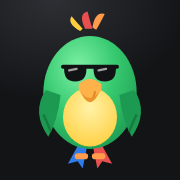
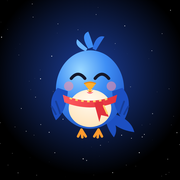
Galaxia negra con estrellas que brillan, íconos y personajes nuevos
Claude-Session: https://claude.ai/code/session_01778MfouyxbgDrk4pFyrYCz

diff --git a/js/practice.js b/js/practice.js
@@ -1,4 +1,4 @@
-// Fluent — practicar (repaso, juegos, conversaciones, Kiko IA), diccionario, gramática, progreso y ajustes.
+// Fluent — practicar (repaso, juegos, conversaciones, Alex IA), diccionario, gramática, progreso y ajustes.
 const REF=window.REFERENCE||{grammar:[],compare:[],phrasal:[],irregular:[],expressions:[],false_friends:[]};
 function learnedWords(){const ws=Object.values(S.srs).filter(c=>c.kind==='w');return ws.length>=8?ws:ALL_WORDS.slice(0,24).map(w=>({...w}))}
 
@@ -7,7 +7,7 @@ function practiceView(){
   const due=srsDue().length,weak=srsWeak().length;
   return `<h1 class="title">Practicar</h1><div class="grid2">
   <button class="tile-card wide hero" onclick="startReview()"><div class="ti">${ic('brain',24)}</div><div><b>Repaso diario</b><br><span>${due?`${due} ${due===1?'cosa lista':'cosas listas'} para repasar`:'Al día. Repasa lo aprendido'}</span></div></button>
-  <button class="tile-card wide" onclick="openTutor()"><div class="ti">${kikoSVG(40,'talk')}</div><div><b>Platica con Kiko</b><br><span>Conversa en inglés, te corrige y al final te dice cómo mejorar</span></div></button>
+  <button class="tile-card wide" onclick="openTutor()"><div class="ti">${kikoSVG(40,'talk')}</div><div><b>Platica con Alex</b><br><span>Conversa en inglés, te corrige y al final te dice cómo mejorar</span></div></button>
   <button class="tile-card" onclick="gamePairs()"><div class="ti">${ic('pairs',22)}</div><b>Parejas contra reloj</b><span>Une palabras en 60 segundos</span></button>
   <button class="tile-card" onclick="gameListen()"><div class="ti">${ic('ear',22)}</div><b>Oído rápido</b><span>Escucha y elige</span></button>
   <button class="tile-card" onclick="gameTF()"><div class="ti">${ic('tf',22)}</div><b>¿Sí o no?</b><span>¿La traducción es correcta?</span></button>
@@ -60,23 +60,23 @@ function gameSpell(){
 }
 
 /* ---------------- conversaciones (diálogos de cada curso) ---------------- */
-function openDialogs(){const us=UNITS.filter(u=>unitUnlocked(u.id));openSheet(head('Conversaciones','Tú eres la persona B. Kiko dice las líneas de A.')+`<div class="list">${us.map(u=>`<div class="li" onclick="closeSheet();openDialogue(${u.id})">${ic('chat',20)}<div class="mid"><div class="t">${esc(u.dialogue.title_es)}</div><div class="s">Curso ${u.id} · ${esc(u.dialogue.setting_es)}</div></div>${S.units[u.id]?.dlg?`<span style="color:var(--gold)">${ic('star',18)}</span>`:''}</div>`).join('')}</div>`)}
+function openDialogs(){const us=UNITS.filter(u=>unitUnlocked(u.id));openSheet(head('Conversaciones','Tú eres la persona B. Alex dice las líneas de A.')+`<div class="list">${us.map(u=>`<div class="li" onclick="closeSheet();openDialogue(${u.id})">${ic('chat',20)}<div class="mid"><div class="t">${esc(u.dialogue.title_es)}</div><div class="s">Curso ${u.id} · ${esc(u.dialogue.setting_es)}</div></div>${S.units[u.id]?.dlg?`<span style="color:var(--gold)">${ic('star',18)}</span>`:''}</div>`).join('')}</div>`)}
 function openDialogue(uid){
   const u=unitById(uid),d=u.dialogue;
   openSheet(head(esc(d.title_es),esc(d.setting_es))+`<div class="chat">${d.lines.map(l=>`<div class="msg ${l.who==='B'?'me':'kiko'}">${esc(l.en)}<span class="tr" style="${l.who==='B'?'color:rgba(255,255,255,.75)':''}">${esc(l.es)}</span></div>`).join('')}</div>
   <button class="btn alt" onclick="playDialogue(${uid})">${ic('speaker',18)} Escuchar completa</button><button class="btn" onclick="closeSheet();actDialogue(${uid})">${ic('mic',18)} Actuarla (tú eres B)</button>`);
 }
 function playDialogue(uid){const ls_=unitById(uid).dialogue.lines;let i=0;const nx=()=>{if(i<ls_.length)speak(ls_[i++].en,{onend:()=>setTimeout(nx,350)})};nx()}
-function actDialogue(uid){const d=unitById(uid).dialogue;const q=[];d.lines.forEach((l,i)=>{if(l.who==='B'){const prev=d.lines[i-1];q.push({type:'speak',q:prev?`Kiko: “${prev.en}”`:'Empieza la plática',prompt:l.en,es:l.es,answer:l.en,item:null,audioFirst:prev?.en})}});
+function actDialogue(uid){const d=unitById(uid).dialogue;const q=[];d.lines.forEach((l,i)=>{if(l.who==='B'){const prev=d.lines[i-1];q.push({type:'speak',q:prev?`Alex: “${prev.en}”`:'Empieza la plática',prompt:l.en,es:l.es,answer:l.en,item:null,audioFirst:prev?.en})}});
   runSession({mode:'review',queue:q,title:d.title_es,onFinish:acc=>{S.units[uid]={...(S.units[uid]||{}),dlg:Math.max(acc,S.units[uid]?.dlg||0)}}})}
 
-/* ---------------- Kiko IA ---------------- */
+/* ---------------- Alex IA ---------------- */
 const SCENARIOS=[['','Plática libre'],['ordering food at a restaurant in New York','Restaurante'],['checking in at a hotel','Hotel'],['a job interview for an office job','Entrevista'],['asking for directions in a city','Direcciones'],['shopping for clothes','Compras'],['at the doctor','Doctor'],['making plans with a friend for the weekend','Planes con amigos'],['at the airport check-in','Aeropuerto'],['talking about your family and hobbies','Familia y hobbies']];
 let T={msgs:[],scen:'',busy:false};
 function tutorLevel(){const nx=nextLesson();const u=nx?(nx.test||nx.unit):16;return u<=6?'A1':u<=11?'A2':u<=15?'B1':'B2'}
-function openTutor(){T={msgs:[],scen:T.scen||'',busy:false};renderTutor();setTimeout(()=>{if(!T.msgs.length)kikoSays(T.scen?"Let's start! I'll begin.":`Hi${userName()?' '+userName():''}! I'm Kiko. How are you today?`,'¡Hola! Soy Kiko. ¿Cómo estás hoy?')},300)}
+function openTutor(){T={msgs:[],scen:T.scen||'',busy:false};renderTutor();setTimeout(()=>{if(!T.msgs.length)kikoSays(T.scen?"Let's start! I'll begin.":`Hi${userName()?' '+userName():''}! I'm Alex. How are you today?`,'¡Hola! Soy Alex. ¿Cómo estás hoy?')},300)}
 function renderTutor(){
-  openSheet(head('Platica con Kiko',`Nivel ${tutorLevel()} · Escribe o habla en inglés. Si no sabes cómo decir algo, escríbelo en español.`)+
+  openSheet(head('Platica con Alex',`Nivel ${tutorLevel()} · Escribe o habla en inglés. Si no sabes cómo decir algo, escríbelo en español.`)+
   `<div class="scen">${SCENARIOS.map(([k,n])=>`<button class="${T.scen===k?'on':''}" onclick="T.scen='${k}';openTutor()">${n}</button>`).join('')}</div>
   <div class="chat" id="chat">${T.msgs.map(msgHTML).join('')}</div>
   <div class="composer"><button class="mic" id="tMic" onclick="tutorMic()" aria-label="Hablar">${ic('mic',22)}</button><textarea id="tIn" rows="1" placeholder="Write in English…" onkeydown="if(event.key==='Enter'&&!event.shiftKey){event.preventDefault();tutorSend()}"></textarea><button onclick="tutorSend()" aria-label="Enviar">${ic('send',20)}</button></div>
@@ -85,7 +85,7 @@ function renderTutor(){
 }
 function msgHTML(m,i){
   if(m.role==='user')return `<div class="msg me">${esc(m.content)}</div>`;
-  if(m.typing)return `<div class="msg kiko"><span class="muted">Kiko está escribiendo…</span></div>`;
+  if(m.typing)return `<div class="msg kiko"><span class="muted">Alex está escribiendo…</span></div>`;
   return `<div class="msg kiko">${esc(m.content)}${m.reply_es?`<span class="tr" id="tr${i}" style="display:none">${esc(m.reply_es)}</span>`:''}${m.correction?`<span class="corr"><b>Mejor di:</b> ${esc(m.correction)}${m.explain_es?`<br><span class="muted">${esc(m.explain_es)}</span>`:''}</span>`:m.praise?`<span class="ok">${ic('check',14)} ${esc(m.praise)}</span>`:''}<span class="acts"><button onclick="speak(T.msgs[${i}].content)">${ic('speaker',15)} Escuchar</button>${m.reply_es?`<button onclick="const e=$('tr${i}');e.style.display=e.style.display?'':'none'">Traducir</button>`:''}</span></div>`;
 }
 function kikoSays(en,es){T.msgs.push({role:'assistant',content:en,reply_es:es});renderTutor();speak(en)}
@@ -96,7 +96,7 @@ async function tutorSend(){
     const {data:{session}}=await sb.auth.getSession();
     const r=await fetch(TUTOR_API,{method:'POST',headers:{Authorization:'Bearer '+session.access_token,'Content-Type':'application/json'},body:JSON.stringify({messages:T.msgs.filter(m=>!m.typing).map(m=>({role:m.role,content:m.content})),scenario:T.scen,level:tutorLevel()})});
     const j=await r.json().catch(()=>({}));T.msgs.pop();
-    if(!r.ok){T.msgs.push({role:'assistant',content:j.error||'Kiko no está disponible ahorita.',reply_es:null});T.busy=false;renderTutor();sfx('error');return}
+    if(!r.ok){T.msgs.push({role:'assistant',content:j.error||'Alex no está disponible ahorita.',reply_es:null});T.busy=false;renderTutor();sfx('error');return}
     T.msgs.push({role:'assistant',content:j.reply||'…',reply_es:j.reply_es,correction:j.correction,explain_es:j.explain_es,praise:j.praise});
     S.totals.tutor++;addXP(2);save();T.busy=false;renderTutor();speak(j.reply||'');sfx(j.correction?'toggle':'done');
   }catch(e){T.msgs.pop();T.busy=false;T.msgs.push({role:'assistant',content:'Sin conexión. Intenta otra vez.'});renderTutor()}
@@ -107,7 +107,7 @@ function tutorMic(){
   b.classList.add('rec');listen({onText:t=>{$('tIn').value=t},onEnd:f=>{b?.classList.remove('rec');sfx('stop');if(f.trim())tutorSend()},onError:()=>{b?.classList.remove('rec')}});
 }
 async function tutorSummary(){
-  openSheet(head('Tu plática','Kiko está revisando…')+`<div style="text-align:center">${kikoSVG(120,'think')}</div>`);
+  openSheet(head('Tu plática','Alex está revisando…')+`<div style="text-align:center">${kikoSVG(120,'think')}</div>`);
   try{const {data:{session}}=await sb.auth.getSession();
     const r=await fetch(TUTOR_API,{method:'POST',headers:{Authorization:'Bearer '+session.access_token,'Content-Type':'application/json'},body:JSON.stringify({mode:'summary',messages:T.msgs.filter(m=>!m.typing).map(m=>({role:m.role,content:m.content})),level:tutorLevel()})});
     const j=await r.json();if(!r.ok)throw new Error(j.error);
@@ -118,7 +118,7 @@ async function tutorSummary(){
     ${(j.tips_es||[]).length?`<div class="sec"><h2>Cómo mejorar</h2></div><div class="list">${j.tips_es.map(s=>`<div class="li">${ic('target',18)}<div class="mid">${esc(s)}</div></div>`).join('')}</div>`:''}
     ${(j.useful_phrases||[]).length?`<div class="sec"><h2>Frases útiles</h2></div><div class="list">${j.useful_phrases.map(p=>`<div class="li" onclick="speak('${esc(p.en).replace(/'/g,"\\'")}')"><span style="color:var(--blue)">${ic('speaker',18)}</span><div class="mid"><div class="t">${esc(p.en)}</div><div class="s">${esc(p.es)}</div></div></div>`).join('')}</div>`:''}
     <div style="margin-top:16px"><button class="btn" onclick="openTutor()">Platicar otra vez</button></div>`);
-    (j.mistakes||[]).forEach(m=>srsAdd({en:m.better,es:m.why_es||'Corrección de Kiko',lesson:'kiko'},'s'));save();
+    (j.mistakes||[]).forEach(m=>srsAdd({en:m.better,es:m.why_es||'Corrección de Alex',lesson:'kiko'},'s'));save();
   }catch(e){openSheet(head('Tu plática','')+`<p>No pude revisar la plática: ${esc(e.message||'')}</p><button class="btn" onclick="renderTutor()">Regresar</button>`)}
 }
 

diff --git a/galaxy.js b/galaxy.js
@@ -1,62 +1,76 @@
-// Fondo de galaxia en movimiento: estrellas que se desplazan en capas, nebulosas que respiran
-// y una estrella fugaz de vez en cuando. Se adapta al tema claro u oscuro de la app.
+// Fondo de galaxia negra: estrellas que titilan, algunas con destello en cruz, una Vía Láctea
+// muy suave que gira lento y estrellas fugaces de vez en cuando. En tema claro se vuelve discreto.
 (function () {
   if (window.__galaxy) return; window.__galaxy = true;
   var st = document.createElement('style');
-  st.textContent = 'html:not(#gx){background:var(--bg,#0e0e16)!important}html body:not(#gx),html .auth:not(#gx),html #authOverlay:not(#gx){background:transparent!important}#galaxy-bg{position:fixed;inset:0;width:100vw;height:100vh;z-index:-1;pointer-events:none;display:block}';
+  st.id = 'galaxy-css';
   document.head.appendChild(st);
   var cv = document.createElement('canvas'); cv.id = 'galaxy-bg'; cv.setAttribute('aria-hidden', 'true');
   function mount() { document.body.insertBefore(cv, document.body.firstChild); }
   if (document.body) mount(); else document.addEventListener('DOMContentLoaded', mount);
-  var c = cv.getContext('2d'), W = 0, H = 0, D = 1, stars = [], dark = true, base = [14, 14, 22], accent = [124, 92, 255];
+  var c = cv.getContext('2d'), W = 0, H = 0, D = 1, stars = [], dust = [], dark = true, shoot = null;
   function rgb(s) { var m = String(s).match(/\d+(\.\d+)?/g); return m && m.length >= 3 ? [+m[0], +m[1], +m[2]] : null; }
   function theme() {
-    var cs = getComputedStyle(document.documentElement);
-    base = rgb(cs.backgroundColor) || base;
-    var a = cs.getPropertyValue('--accent') || cs.getPropertyValue('--brand') || cs.getPropertyValue('--primary');
-    if (a && a.trim()) { var t = document.createElement('i'); t.style.color = a.trim(); document.body.appendChild(t); accent = rgb(getComputedStyle(t).color) || accent; t.remove(); }
-    dark = (0.299 * base[0] + 0.587 * base[1] + 0.114 * base[2]) < 128;
+    // Lee el color de fondo que define la app (--bg) para saber si está en tema oscuro o claro.
+    var probe = document.createElement('i'); probe.style.color = 'var(--bg, #000)'; document.body.appendChild(probe);
+    var b = rgb(getComputedStyle(probe).color) || [0, 0, 0]; probe.remove();
+    var was = dark; dark = (0.299 * b[0] + 0.587 * b[1] + 0.114 * b[2]) < 128;
+    st.textContent = 'html:not(#gx){background:' + (dark ? '#000' : 'var(--bg,#f4f4f7)') + '!important}html body:not(#gx),html .auth:not(#gx),html #authOverlay:not(#gx){background:transparent!important}#galaxy-bg{position:fixed;inset:0;width:100vw;height:100vh;z-index:-1;pointer-events:none;display:block}';
+    var mt = document.querySelector('meta[name="theme-color"]'); if (mt && dark) mt.setAttribute('content', '#000000');
+    return was !== dark;
   }
   function seed() {
-    var n = Math.round(Math.min(260, W * H / 4200)); stars = [];
-    for (var i = 0; i < n; i++) stars.push({ x: Math.random() * W, y: Math.random() * H, z: Math.random(), p: Math.random() * 6.28, h: Math.random() });
+    var n = Math.round(Math.min(420, W * H / 2600)); stars = [];
+    for (var i = 0; i < n; i++) {
+      var z = Math.pow(Math.random(), 2.2);
+      stars.push({ x: Math.random() * W, y: Math.random() * H, z: z, p: Math.random() * 6.28, sp: .6 + Math.random() * 2.4, h: Math.random(), flare: z > .82 && Math.random() < .5 });
+    }
+    dust = []; for (var j = 0; j < 260; j++) { var t = Math.random(); dust.push({ t: t, o: (Math.random() - .5) * (.12 + Math.random() * .1), r: Math.random() * 1.1 + .2, a: Math.random() }); }
   }
   function size() { D = Math.min(2, window.devicePixelRatio || 1); W = innerWidth; H = innerHeight; cv.width = W * D; cv.height = H * D; c.setTransform(D, 0, 0, D, 0, 0); seed(); }
-  var shoot = null;
-  function frame(t) {
-    t /= 1000;
+  function frame(ms) {
+    var t = ms / 1000;
     c.clearRect(0, 0, W, H);
-    // nebulosas
-    var neb = [[accent, .25, .3, .55], [[90, 140, 255], .8, .2, .45], [[255, 110, 190], .6, .85, .5]];
-    for (var k = 0; k < neb.length; k++) {
-      var col = neb[k][0], x = W * (neb[k][1] + .06 * Math.sin(t * .05 + k * 2)), y = H * (neb[k][2] + .05 * Math.cos(t * .04 + k)), r = Math.max(W, H) * neb[k][3] * (1 + .08 * Math.sin(t * .1 + k));
-      var g = c.createRadialGradient(x, y, 0, x, y, r), a = dark ? .2 : .1;
-      g.addColorStop(0, 'rgba(' + col + ',' + a + ')'); g.addColorStop(1, 'rgba(' + col + ',0)');
-      c.fillStyle = g; c.fillRect(0, 0, W, H);
-    }
-    // estrellas en capas (las cercanas se mueven más rápido)
+    var ink = dark ? '255,255,255' : '40,40,80';
+    // Vía Láctea: una banda diagonal muy tenue que gira despacio
+    c.save(); c.translate(W / 2, H / 2); c.rotate(-.55 + Math.sin(t * .01) * .05);
+    var L = Math.hypot(W, H), bw = Math.min(W, H) * .32;
+    var g = c.createLinearGradient(0, -bw, 0, bw);
+    g.addColorStop(0, 'rgba(120,110,200,0)'); g.addColorStop(.5, dark ? 'rgba(150,140,230,.07)' : 'rgba(120,110,200,.05)'); g.addColorStop(1, 'rgba(120,110,200,0)');
+    c.fillStyle = g; c.fillRect(-L, -bw, L * 2, bw * 2);
+    for (var j = 0; j < dust.length; j++) { var d = dust[j]; var x = (d.t - .5) * L * 1.1, y = d.o * L; c.fillStyle = 'rgba(' + ink + ',' + (.15 + .25 * (.5 + .5 * Math.sin(t * .8 + d.a * 9))) * (dark ? 1 : .5) + ')'; c.fillRect(x, y, d.r, d.r); }
+    c.restore();
+    // estrellas
     for (var i = 0; i < stars.length; i++) {
-      var s = stars[i], sp = .8 + s.z * 7;
-      var x2 = (s.x + t * sp) % (W + 4), y2 = (s.y + t * sp * .35) % (H + 4);
-      var tw = .5 + .5 * Math.sin(t * (1 + s.z * 2) + s.p), r2 = .4 + s.z * 1.5;
-      var tint = s.h < .15 ? '200,215,255' : s.h > .92 ? '255,225,190' : (dark ? '255,255,255' : '60,60,110');
-      c.fillStyle = 'rgba(' + tint + ',' + ((dark ? .35 : .22) + tw * (dark ? .6 : .3)) + ')';
-      c.beginPath(); c.arc(x2, y2, r2, 0, 6.29); c.fill();
-      if (s.z > .93 && dark) { c.fillStyle = 'rgba(255,255,255,' + tw * .12 + ')'; c.beginPath(); c.arc(x2, y2, r2 * 4, 0, 6.29); c.fill(); }
+      var s = stars[i];
+      var x2 = (s.x + t * (1 + s.z * 4)) % (W + 6), y2 = s.y;
+      var tw = .5 + .5 * Math.sin(t * s.sp + s.p); tw = tw * tw;
+      var r = .35 + s.z * 1.7;
+      var col = s.h < .12 ? '180,205,255' : s.h > .93 ? '255,220,180' : ink;
+      var a = (dark ? .25 : .12) + tw * (dark ? .75 : .35);
+      c.fillStyle = 'rgba(' + col + ',' + a + ')';
+      c.beginPath(); c.arc(x2, y2, r, 0, 6.29); c.fill();
+      if (s.flare && dark) {
+        var fl = r * (4 + tw * 7);
+        c.strokeStyle = 'rgba(' + col + ',' + tw * .55 + ')'; c.lineWidth = .8;
+        c.beginPath(); c.moveTo(x2 - fl, y2); c.lineTo(x2 + fl, y2); c.moveTo(x2, y2 - fl); c.lineTo(x2, y2 + fl); c.stroke();
+        var gg = c.createRadialGradient(x2, y2, 0, x2, y2, r * 6); gg.addColorStop(0, 'rgba(' + col + ',' + tw * .35 + ')'); gg.addColorStop(1, 'rgba(' + col + ',0)');
+        c.fillStyle = gg; c.beginPath(); c.arc(x2, y2, r * 6, 0, 6.29); c.fill();
+      }
     }
     // estrella fugaz
-    if (!shoot && Math.random() < .004) shoot = { x: Math.random() * W * .8, y: Math.random() * H * .4, l: 0 };
+    if (!shoot && Math.random() < .003) shoot = { x: Math.random() * W * .8, y: Math.random() * H * .45, l: 0, a: .35 + Math.random() * .3 };
     if (shoot) {
-      shoot.l += .02; var L = shoot.l, sx = shoot.x + L * W * .4, sy = shoot.y + L * H * .2;
-      var lg = c.createLinearGradient(sx, sy, sx - 110, sy - 55);
-      lg.addColorStop(0, (dark ? 'rgba(255,255,255,' : 'rgba(80,80,140,') + (1 - L) + ')'); lg.addColorStop(1, 'rgba(255,255,255,0)');
-      c.strokeStyle = lg; c.lineWidth = 1.8; c.beginPath(); c.moveTo(sx, sy); c.lineTo(sx - 110, sy - 55); c.stroke();
-      if (L >= 1) shoot = null;
+      shoot.l += .018; var k = shoot.l, sx = shoot.x + k * W * .45, sy = shoot.y + k * W * .45 * shoot.a, len = 140;
+      var lg = c.createLinearGradient(sx, sy, sx - len, sy - len * shoot.a);
+      lg.addColorStop(0, 'rgba(' + ink + ',' + Math.sin(k * Math.PI) + ')'); lg.addColorStop(1, 'rgba(' + ink + ',0)');
+      c.strokeStyle = lg; c.lineWidth = 1.6; c.beginPath(); c.moveTo(sx, sy); c.lineTo(sx - len, sy - len * shoot.a); c.stroke();
+      if (k >= 1) shoot = null;
     }
   }
   var reduce = matchMedia('(prefers-reduced-motion: reduce)').matches;
   function loop(ts) { if (!document.hidden) frame(ts); requestAnimationFrame(loop); }
-  function start() { theme(); size(); if (reduce) frame(20000); else requestAnimationFrame(loop); setInterval(function () { var d = dark, b = base + ''; theme(); if (reduce && (d !== dark || b !== base + '')) frame(20000); }, 1500); }
+  function start() { theme(); size(); if (reduce) frame(20000); else requestAnimationFrame(loop); setInterval(function () { if (theme() && reduce) frame(20000); }, 1500); }
   addEventListener('resize', function () { size(); if (reduce) frame(20000); });
   if (document.readyState === 'loading') document.addEventListener('DOMContentLoaded', start); else start();
 })();

diff --git a/js/core.js b/js/core.js
@@ -121,33 +121,37 @@ function similarity(said,expected){
 }
 function typedOK(said,expected){const a=norm(said),b=norm(expected);if(a===b)return 'exact';const d=lev(a,b);return d<=Math.max(1,Math.floor(b.length/12))?'typo':false}
 
-/* ---------------- personaje: Kiko, el perico con lentes ---------------- */
+/* ---------------- personaje: Alex, el pájaro azul ---------------- */
 let _kid=0;
 function isSleep(){const h=new Date().getHours();return h>=23||h<5}
 function kikoSVG(size=90,mood='idle'){
   if(isSleep()&&['idle','wave'].includes(mood))mood='sleep';
-  const id='k'+(++_kid),sleep=mood==='sleep',ink='#121314';
-  const eyes=sleep?`<path d="M44 52q6 5 12 0M64 52q6 5 12 0" stroke="${ink}" stroke-width="3" fill="none" stroke-linecap="round"/>`
-    :`<g class="glass"><path d="M38 47h44" stroke="${ink}" stroke-width="3.2" stroke-linecap="round"/><path d="M39 47h18q1 12-9 12t-9-12z" fill="${ink}"/><path d="M63 47h18q1 12-9 12t-9-12z" fill="${ink}"/><path d="M43 50l6-1.2M67 50l6-1.2" stroke="#fff" stroke-width="2" stroke-linecap="round" opacity=".6"/></g>`;
+  const id='k'+(++_kid),sleep=mood==='sleep',ink='#14182b';
   const happy=['happy','celebrate','wave'].includes(mood);
+  const eyes=sleep?`<path d="M38 55q8 6 16 0M66 55q8 6 16 0" stroke="${ink}" stroke-width="3.2" fill="none" stroke-linecap="round"/>`
+    :happy?`<path d="M38 57q8-10 16 0M66 57q8-10 16 0" stroke="${ink}" stroke-width="3.6" fill="none" stroke-linecap="round"/>`
+    :`<g class="eyes"><ellipse cx="46" cy="54" rx="10" ry="11.5" fill="#fff"/><ellipse cx="74" cy="54" rx="10" ry="11.5" fill="#fff"/><g class="pupils"><circle cx="${mood==='think'?44:48}" cy="${mood==='think'?51:56}" r="5.6" fill="${ink}"/><circle cx="${mood==='think'?72:76}" cy="${mood==='think'?51:56}" r="5.6" fill="${ink}"/><circle cx="${mood==='think'?46:50}" cy="${mood==='think'?49:54}" r="1.9" fill="#fff"/><circle cx="${mood==='think'?74:78}" cy="${mood==='think'?49:54}" r="1.9" fill="#fff"/></g></g>`;
   const zz=sleep?`<text class="z" x="92" y="22" font-size="12" font-weight="800" fill="var(--muted)">z</text><text class="z z2" x="100" y="12" font-size="15" font-weight="800" fill="var(--muted)">z</text><text class="z z3" x="108" y="2" font-size="18" font-weight="800" fill="var(--muted)">Z</text>`:'';
-  const tongue=happy||mood==='talk'?`<path d="M55 72q5 6 10 0" fill="#e86a6a"/>`:'';
-  const sadBrow=mood==='sad'?`<path d="M40 41l14 3M80 41l-14 3" stroke="${ink}" stroke-width="2.6" stroke-linecap="round"/>`:'';
-  return `<svg class="kiko m-${mood}" width="${size}" height="${size}" viewBox="0 0 120 132" onclick="kikoPoke(this)" role="img" aria-label="Kiko">
-  <defs><radialGradient id="${id}g" cx="38%" cy="28%" r="80%"><stop offset="0" stop-color="#7ef0a6"/><stop offset=".5" stop-color="#36c96f"/><stop offset="1" stop-color="#1d9a52"/></radialGradient>
-  <radialGradient id="${id}y" cx="50%" cy="35%" r="70%"><stop offset="0" stop-color="#fff2a8"/><stop offset="1" stop-color="#ffcf3f"/></radialGradient></defs>
+  const tongue=happy||mood==='talk'?`<path d="M56 73q4 4 8 0" fill="#ff7a8a"/>`:'';
+  const brow=mood==='sad'?`<path d="M36 41l16 5M84 41l-16 5" stroke="${ink}" stroke-width="2.8" stroke-linecap="round"/>`:mood==='think'?`<path d="M37 40q8-4 16 0" stroke="${ink}" stroke-width="2.6" fill="none" stroke-linecap="round"/>`:'';
+  return `<svg class="kiko alex m-${mood}" width="${size}" height="${size}" viewBox="0 0 120 132" onclick="kikoPoke(this)" role="img" aria-label="Alex">
+  <defs><radialGradient id="${id}g" cx="36%" cy="26%" r="85%"><stop offset="0" stop-color="#9ad8ff"/><stop offset=".45" stop-color="#3f8ff5"/><stop offset="1" stop-color="#1c4fc2"/></radialGradient>
+  <radialGradient id="${id}b" cx="50%" cy="30%" r="75%"><stop offset="0" stop-color="#fffaf0"/><stop offset="1" stop-color="#ffe2b8"/></radialGradient>
+  <linearGradient id="${id}s" x1="0" x2="1"><stop offset="0" stop-color="#ff5a5f"/><stop offset="1" stop-color="#e2303c"/></linearGradient></defs>
   <ellipse class="ks" cx="60" cy="127" rx="28" ry="4.5" fill="#000"/>
   <g class="kb">
-    <path d="M52 108l-10 18 8-2 4 6 4-20z" fill="#2f7bea"/><path d="M68 108l10 18-8-2-4 6-4-20z" fill="#e8504f"/>
-    <g class="crest"><path d="M56 16q-6-12 2-14 2 8 4 14z" fill="#e8504f"/><path d="M62 15q2-13 10-11-4 8-7 13z" fill="#ff9b4a"/><path d="M52 18q-11-6-7-12 5 6 9 10z" fill="#ffcf3f"/></g>
-    <ellipse cx="60" cy="68" rx="38" ry="46" fill="url(#${id}g)"/>
-    <ellipse cx="60" cy="88" rx="22" ry="24" fill="url(#${id}y)"/>
-    <g class="wing l"><path d="M24 66q-12 18 2 38 8-14 10-34z" fill="#1d9a52"/><path d="M22 86q4 8 6 14" stroke="#167a41" stroke-width="2" fill="none"/></g>
-    <g class="wing r"><path d="M96 66q12 18-2 38-8-14-10-34z" fill="#1d9a52"/><path d="M98 86q-4 8-6 14" stroke="#167a41" stroke-width="2" fill="none"/></g>
-    <path d="M50 120h6M64 120h6" stroke="#ff9b4a" stroke-width="5" stroke-linecap="round"/>
-    ${eyes}${sadBrow}
-    <path d="M51 61q9-8 18 0q2 8-9 14q-11-6-9-14z" fill="#ffb14a"/><path d="M60 75q4-3 4-8" stroke="#d98a24" stroke-width="1.6" fill="none"/>
-    <g class="beak-lo"><path d="M53 68q7 9 14 0q-2 7-7 8q-5-1-7-8z" fill="#e8952e"/></g>${tongue}
+    <path d="M86 98q22 6 26 22-14-2-22-8 2 8-2 14-8-10-10-22z" fill="#1c4fc2"/>
+    <path d="M50 117l-4 8M50 117l1 9M50 117l5 8M70 117l-5 8M70 117l-1 9M70 117l4 8" stroke="#ff9b2f" stroke-width="3" stroke-linecap="round"/>
+    <g class="crest"><path d="M58 22q-10-16 0-20 4 10 6 18z" fill="#3f8ff5"/><path d="M63 22q4-17 14-14-6 9-10 16z" fill="#2c6fe0"/><path d="M55 25q-14-6-10-14 6 6 12 11z" fill="#6cb6ff"/></g>
+    <ellipse cx="60" cy="70" rx="40" ry="46" fill="url(#${id}g)"/>
+    <ellipse cx="60" cy="92" rx="25" ry="22" fill="url(#${id}b)"/>
+    <g class="wing l"><path d="M22 68q-14 16-2 38 12-10 14-34z" fill="#1c4fc2"/><path d="M20 84q3 8 5 14M15 90q3 5 5 9" stroke="#163d99" stroke-width="2" fill="none" stroke-linecap="round"/></g>
+    <g class="wing r"><path d="M98 68q14 16 2 38-12-10-14-34z" fill="#1c4fc2"/><path d="M100 84q-3 8-5 14M105 90q-3 5-5 9" stroke="#163d99" stroke-width="2" fill="none" stroke-linecap="round"/></g>
+    <g class="scarf"><path d="M28 76q32 14 64 0l-2 9q-30 12-60 0z" fill="url(#${id}s)"/><path d="M74 82l8 20-9-2-2 8-6-22z" fill="#e2303c"/><path d="M76 89l4 9" stroke="#ffd166" stroke-width="2" stroke-linecap="round"/><path d="M36 80q24 8 48 0" stroke="#ffd166" stroke-width="2" fill="none" stroke-dasharray="3 4"/></g>
+    <circle cx="35" cy="66" r="5.5" fill="#ff8fa3" opacity=".55"/><circle cx="85" cy="66" r="5.5" fill="#ff8fa3" opacity=".55"/>
+    ${eyes}${brow}
+    <path d="M53 63q7-5 14 0l-7 9z" fill="#ffb02e"/><path d="M53 63q7-3 14 0" stroke="#e8891a" stroke-width="1.4" fill="none"/>
+    <g class="beak-lo"><path d="M55 69q5 5 10 0l-5 5z" fill="#e8891a"/></g>${tongue}
   </g>${zz}</svg>`;
 }
 function kikoPoke(el){sfx('coin');buzz(12);el.classList.add('m-happy');setTimeout(()=>el.classList.remove('m-happy'),1200);if(Math.random()<.5)speak(pickArr(['Hello!','Let us practice!','You got this!','Nice to see you!']))}
@@ -223,7 +227,7 @@ const ACHS=[
   ['perfect','Perfecto','Lección sin errores','star',()=>S.totals.perfect>=1],
   ['perfect10','Precisión','10 lecciones perfectas','star',()=>S.totals.perfect>=10],
   ['speak50','Buena pronunciación','50 frases dichas bien','mic',()=>S.totals.speak>=50],
-  ['tutor10','Platicador','10 mensajes con Kiko','chat',()=>S.totals.tutor>=10],
+  ['tutor10','Platicador','10 mensajes con Alex','chat',()=>S.totals.tutor>=10],
   ['games10','Jugador','Juega 10 juegos','timer',()=>S.totals.games>=10],
   ['review100','Memoria de elefante','100 repasos','brain',()=>S.totals.reviews>=100],
   ['unit1','Curso 1 completo','Termina el curso 1','trophy',()=>unitComplete(1)],

diff --git a/js/world.js b/js/world.js
@@ -44,7 +44,7 @@ const MISSION_POOL=[
   ['game','Juega {n} juegos del arcade',[2,3],'pairs'],
   ['story','Vive un capítulo de historia',[1],'book'],
   ['boss','Reta a un jefe',[1],'trophy'],
-  ['review','Haz un repaso con Kiko',[1],'brain'],
+  ['review','Haz un repaso con Alex',[1],'brain'],
   ['speak','Di {n} frases en voz alta',[3,5],'mic'],
   ['xp','Gana {n} XP',[30,50],'bolt'],
 ];
@@ -313,12 +313,12 @@ function meView(){
 function buy(id){const it=SHOP.find(i=>i.id===id),w=W();if(w.coins<it.p){sfx('error');return toast(`Te faltan ${it.p-w.coins} monedas`,'think')}w.coins-=it.p;w.inv.push(id);w.equip[it.slot]=id;sfx('coin');confetti();toast('¡Lo compraste!','celebrate');save(true);render()}
 function equip(slot,id){const w=W();if(id)w.equip[slot]=id;else delete w.equip[slot];sfx('toggle');save();render()}
 
-/* ---------------- vista: escuela de Kiko ---------------- */
+/* ---------------- vista: escuela de Alex ---------------- */
 function kikoView(){
   const due=srsDue().length,weak=srsWeak().length;
-  return `<div class="kk-hero">${kikoSVG(92,'wave')}<div><h1>Escuela de Kiko</h1><p>Repasa, platica y resuelve dudas.</p></div></div><div class="grid2">
+  return `<div class="kk-hero">${kikoSVG(92,'wave')}<div><h1>Escuela de Alex</h1><p>Repasa, platica y resuelve dudas.</p></div></div><div class="grid2">
   <button class="tile-card wide hero" onclick="startReview()"><div class="ti">${ic('brain',24)}</div><div><b>Repaso del día</b><br><span>${due?`${due} ${due===1?'cosa lista':'cosas listas'} para repasar`:'Al día. Repasa lo aprendido'}</span></div></button>
-  <button class="tile-card wide" onclick="openTutor()"><div class="ti">${kikoSVG(40,'talk')}</div><div><b>Platica con Kiko</b><br><span>Conversa en inglés, te corrige y te dice cómo mejorar</span></div></button>
+  <button class="tile-card wide" onclick="openTutor()"><div class="ti">${kikoSVG(40,'talk')}</div><div><b>Platica con Alex</b><br><span>Conversa en inglés, te corrige y te dice cómo mejorar</span></div></button>
   <button class="tile-card" onclick="practiceSpeak()"><div class="ti">${ic('mic',22)}</div><b>Pronunciación</b><span>Di frases en voz alta</span></button>
   <button class="tile-card" onclick="practiceWeak()"><div class="ti">${ic('target',22)}</div><b>Palabras difíciles</b><span>${weak?weak+' por reforzar':'Las que más fallas'}</span></button>
   <button class="tile-card" onclick="openGrammar()"><div class="ti">${ic('book',22)}</div><b>Gramática</b><span>${REF.grammar.length} temas y comparaciones</span></button>
@@ -330,7 +330,7 @@ function kikoView(){
 function worldIntro(){if(W().intro)return;W().intro=true;save();openSheet(`<div style="text-align:center">${head('','')}<div style="font-size:64px;line-height:1">🌆</div><h2 style="margin:8px 0">Bienvenido a Brightvale</h2><p class="muted">Acabas de llegar a una ciudad donde todos hablan inglés. Visita cada lugar, cumple encargos, vive su historia y vence a su jefe.</p><p class="muted">Junta los <b>20 sellos</b> de tu pasaporte y gana monedas para personalizar a tu viajero.</p><button class="btn" onclick="closeSheet();openPlace(${currentUnit()})">${ic('play',18)} Empezar a explorar</button></div>`)}
 
 /* ---------------- conectar con la navegación ---------------- */
-VIEWS.length=0;VIEWS.push(['city','Ciudad','map'],['arcade','Arcade','game'],['kiko','Kiko','chat'],['me','Yo','user']);
+VIEWS.length=0;VIEWS.push(['city','Ciudad','map'],['arcade','Arcade','game'],['kiko','Alex','chat'],['me','Yo','user']);
 IC.map='<path d="M9 4 3 6v14l6-2 6 2 6-2V4l-6 2-6-2z"/><path d="M9 4v14M15 6v14"/>';
 IC.game='<rect x="2" y="7" width="20" height="11" rx="5"/><path d="M7 11v3M5.5 12.5h3"/><circle cx="15.5" cy="11.5" r="1"/><circle cx="18" cy="13.5" r="1"/>';
 const _render=render;

diff --git a/js/learn.js b/js/learn.js
@@ -40,7 +40,7 @@ function learnView(){
 function greet(){const h=new Date().getHours();const g=h>=5&&h<12?'Good morning':h<19?'Good afternoon':'Good evening';return g+(userName()?', '+esc(userName()):'')+'!'}
 function scrollToCurrent(){const el=document.querySelector('.node .tag');if(el&&!window.__scrolled){window.__scrolled=1;el.closest('.node').scrollIntoView({block:'center',behavior:'smooth'})}}
 function lockedLesson(){sfx('error');toast('Termina lo anterior para desbloquearlo','think')}
-function startNext(){const nx=nextLesson();if(!nx)return toast('¡Terminaste todo! Repasa o platica con Kiko','celebrate');if(nx.test)return openTest(nx.test);startLesson(nx.id)}
+function startNext(){const nx=nextLesson();if(!nx)return toast('¡Terminaste todo! Repasa o platica con Alex','celebrate');if(nx.test)return openTest(nx.test);startLesson(nx.id)}
 function openUnit(uid){
   const u=unitById(uid);const unlocked=unitUnlocked(uid);
   openSheet(head(`Curso ${u.id}: ${esc(u.title_es)}`,`${u.level} · ${esc(u.goal_es||'')}`)+
@@ -207,7 +207,7 @@ function startSkipTest(uid){const prev=UNITS.filter(u=>u.id<uid);runSession({mod
 
 /* ---------------- bienvenida ---------------- */
 function openOnboarding(step=1){
-  if(step===1)return openSheet(`<div style="text-align:center">${kikoSVG(150,'wave')}<h3 style="font-size:28px;margin:6px 0">¡Hola${userName()?', '+esc(userName()):''}! Soy Kiko.</h3><p class="muted">Te voy a acompañar a aprender inglés desde cero: lecciones cortas, juegos, repaso diario y pláticas conmigo.</p><button class="btn" onclick="openOnboarding(2)">Empezar</button></div>`);
+  if(step===1)return openSheet(`<div style="text-align:center">${kikoSVG(150,'wave')}<h3 style="font-size:28px;margin:6px 0">¡Hola${userName()?', '+esc(userName()):''}! Soy Alex.</h3><p class="muted">Te voy a acompañar a aprender inglés desde cero: lecciones cortas, juegos, repaso diario y pláticas conmigo.</p><button class="btn" onclick="openOnboarding(2)">Empezar</button></div>`);
   if(step===2)return openSheet(head('¿Cuánto quieres practicar al día?','Puedes cambiarlo cuando quieras.')+`<div class="choice">${[[20,'Relajado','5 min al día'],[30,'Normal','10 min al día'],[50,'En serio','15 min al día'],[80,'Intenso','20+ min al día']].map(([g,n,s])=>`<button class="${S.settings.goal===g?'on':''}" onclick="S.settings.goal=${g};sfx('toggle');openOnboarding(3)">${ic('target',20)} ${n}<span>${s}</span></button>`).join('')}</div>`);
   if(step===3)return openSheet(head('¿A qué hora te recuerdo?','Te mando una notificación para que no pierdas tu racha.')+`<div class="field"><input type="time" id="obTime" value="${S.settings.remind}"></div><button class="btn" onclick="S.settings.remind=$('obTime').value||'19:00';enablePush(this).finally(()=>openOnboarding(4))">${ic('bell',18)} Activar recordatorio</button><button class="btn alt" onclick="S.settings.remind=$('obTime').value||'19:00';openOnboarding(4)">Ahora no</button>`);
   S.settings.onboarded=true;save(true);closeSheet();render();setTimeout(()=>startLesson(UNITS[0].lessons[0].id),300);

diff --git a/js/exam.js b/js/exam.js
@@ -1,5 +1,5 @@
 // Fluent — examen final de cada curso, estilo Cambridge: Reading, Listening, Use of English, Writing y Speaking.
-// Se aprueba con 70%: 85%+ "con distinción", 75%+ "con mérito". Writing y Speaking los califica Kiko (IA); si no hay conexión, te autoevalúas.
+// Se aprueba con 70%: 85%+ "con distinción", 75%+ "con mérito". Writing y Speaking los califica Alex (IA); si no hay conexión, te autoevalúas.
 const EXAMS=window.EXAMS||{};
 const VOICE_SEX={11:{A:'f',B:'m'},15:{A:'f',B:'m'},18:{A:'m',B:'f'},19:{A:'f',B:'m'},20:{A:'f',B:'m'}};
 let X=null;
@@ -68,7 +68,7 @@ async function gradeAI(kind,task,answer){
   try{const {data:{session}}=await sb.auth.getSession();const r=await fetch(TUTOR_API,{method:'POST',headers:{Authorization:'Bearer '+session.access_token,'Content-Type':'application/json'},body:JSON.stringify({mode:'grade',kind,level:examLevel(X.uid),task,answer})});if(!r.ok)return null;const j=await r.json();return typeof j.score==='number'?j:null}catch(e){return null}
 }
 async function examGrade(){
-  const e=X.e;$('pBtn').style.display='none';$('pBody').innerHTML=`<div class="result">${kikoSVG(140,'think')}<h2>Calificando tu examen…</h2><p class="muted">Kiko está revisando tu Writing y tu Speaking.</p></div>`;
+  const e=X.e;$('pBtn').style.display='none';$('pBody').innerHTML=`<div class="result">${kikoSVG(140,'think')}<h2>Calificando tu examen…</h2><p class="muted">Alex está revisando tu Writing y tu Speaking.</p></div>`;
   const pct=(sec,qs)=>Math.round(qs.filter((q,i)=>X.ans[sec][i]===q.answer).length/qs.length*100);
   const R={reading:pct('reading',e.reading.questions),listening:pct('listening',e.listening.questions),use:pct('use',e.use)};
   const w=e.writing;const wTask={prompt_en:w.prompt_en,checklist:w.checklist_es,min:w.min_words,max:w.max_words};

diff --git a/index.html b/index.html
@@ -3,7 +3,7 @@
 <head>
 <meta charset="utf-8">
 <meta name="viewport" content="width=device-width,initial-scale=1,viewport-fit=cover">
-<meta name="theme-color" content="#131416">
+<meta name="theme-color" content="#000000">
 <meta name="fluent-version" content="2">
 <meta name="apple-mobile-web-app-capable" content="yes">
 <meta name="apple-mobile-web-app-status-bar-style" content="black-translucent">
@@ -258,7 +258,7 @@ h1.title{font-size:30px;font-weight:900;letter-spacing:-.03em;margin:6px 2px 14p
 .confetti i{position:absolute;top:-20px;width:9px;height:14px;border-radius:3px;animation:fall 1.7s cubic-bezier(.2,.6,.4,1) forwards}
 @keyframes fall{to{transform:translateY(110vh) rotate(720deg);opacity:.3}}
 .fade{animation:fade .3s ease both}@keyframes fade{from{opacity:0;transform:translateY(6px)}}
-/* personaje Kiko */
+/* personaje Alex */
 .kiko{overflow:visible;display:block;cursor:pointer}
 .kiko .kb{transform-box:fill-box;transform-origin:50% 100%;animation:kfloat 3s ease-in-out infinite}
 .kiko .ks{transform-box:fill-box;transform-origin:50% 50%;animation:kshadow 3s ease-in-out infinite}
@@ -301,7 +301,7 @@ div[style*="text-align:center"]>.kiko,.result>.kiko{margin:0 auto}
 <div class="auth" id="auth"><div class="auth-box">
   <div id="authK" style="display:flex;justify-content:center"></div>
   <h1>Fluent</h1>
-  <p class="sub">Aprende inglés desde cero: lecciones cortas, juegos, repaso diario y pláticas con Kiko.</p>
+  <p class="sub">Aprende inglés desde cero: lecciones cortas, juegos, repaso diario y pláticas con Alex.</p>
   <div id="loginCard">
     <div class="err" id="loginErr"></div>
     <div class="field"><label for="lEmail">Correo</label><input id="lEmail" type="email" autocomplete="username" placeholder="tucorreo@ejemplo.com"></div>

diff --git a/world.css b/world.css
@@ -128,3 +128,7 @@
 .kk-hero{display:flex;gap:14px;align-items:center;margin-bottom:12px}.kk-hero h1{margin:0;font-size:26px}.kk-hero p{margin:2px 0 0;color:var(--muted)}
 @media (min-width:900px){.ar-grid{grid-template-columns:repeat(3,1fr)}.w-place{width:70%}}
 @media (prefers-reduced-motion:reduce){.w-pin,.w-big,.bf-boss,.w-claim{animation:none}}
+.alex .eyes{transform-box:fill-box;transform-origin:50% 50%;animation:ablink 4.5s infinite}
+.alex .scarf{transform-box:fill-box;transform-origin:50% 0%;animation:ascarf 3s ease-in-out infinite}
+@keyframes ablink{0%,92%,100%{transform:scaleY(1)}95%{transform:scaleY(.1)}}
+@keyframes ascarf{0%,100%{transform:rotate(0)}50%{transform:rotate(-2deg)}}

diff --git a/sw.js b/sw.js
@@ -1,6 +1,6 @@
 // Service worker de Fluent: la página siempre se pide a la red primero (para no quedarse con versiones viejas)
 // y los íconos se guardan en caché. También recibe los avisos de pago.
-const CACHE = 'fluent-static-v2';
+
 const ASSETS = ['./manifest.json', './icons/icon-192.png', './icons/icon-512.png'];
 self.addEventListener('install', (e) => { e.waitUntil(caches.open(CACHE).then((c) => c.addAll(ASSETS)).catch(() => {})); self.skipWaiting(); });
 self.addEventListener('activate', (e) => { e.waitUntil(caches.keys().then((ks) => Promise.all(ks.filter((k) => k !== CACHE).map((k) => caches.delete(k))))); self.clients.claim(); });
